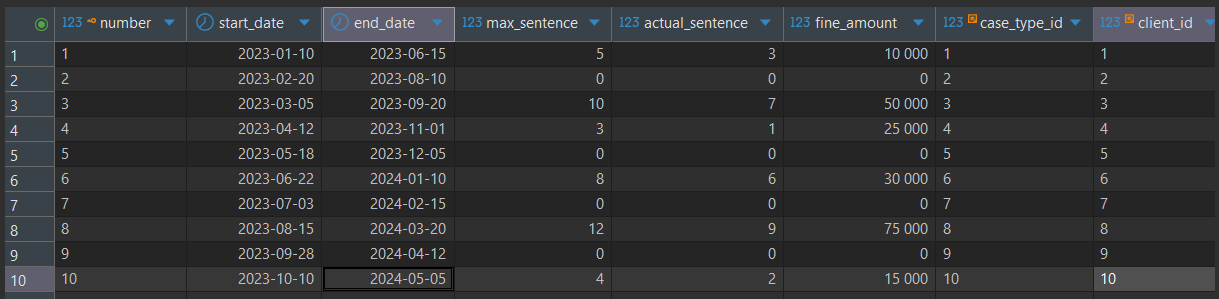
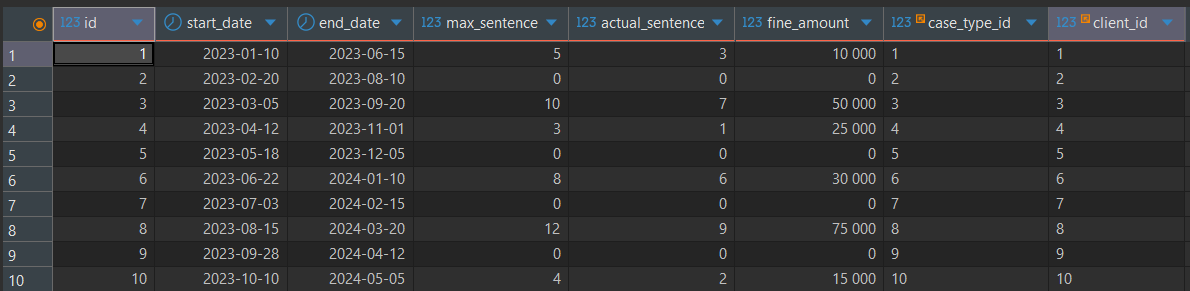
fix lab 2

diff --git a/README.md b/README.md
@@ -6,9 +6,9 @@ Database Labs in YarSU, Semenov Evgeniy, PMI-32, Lab number 13.
 
 ## Lab 1
 ### ER-model:
-![ER-model](https://github.com/Semonzz/databaseLabs/blob/main/1/1.png)
+![ER-model](/1/1.png)
 ### Relational model:
-![REL-model](https://github.com/Semonzz/databaseLabs/blob/main/1/2_1.png)
+![REL-model](/1/2_1.png)
 
 
 ## Lab 2 (PGSQL)
@@ -44,14 +44,14 @@ CREATE TABLE Client (
 
 
 CREATE TABLE "Case" (
-    number SERIAL PRIMARY KEY,
+    id SERIAL PRIMARY KEY,
     start_date DATE NOT NULL,
     end_date DATE,
     max_sentence INT CHECK (max_sentence >= 0),
     actual_sentence INT CHECK (actual_sentence >= 0),
     fine_amount INT CHECK (fine_amount >= 0),
     case_type_id INTEGER REFERENCES CaseType(id) ON DELETE SET NULL,
-    client_id INTEGER REFERENCES Client(id) ON DELETE CASCADE
+    client_id INTEGER NOT NULL REFERENCES Client(id) ON DELETE RESTRICT
 );
 
 
@@ -65,8 +65,8 @@ CREATE TABLE Lawyer_Client (
 
 CREATE TABLE Lawyer_Case (
     lawyer_id INTEGER REFERENCES Lawyer(id) ON DELETE CASCADE,
-    case_number INTEGER REFERENCES "Case"(number) ON DELETE CASCADE,
-    PRIMARY KEY (lawyer_id, case_number)
+    case_id INTEGER REFERENCES "Case"(id) ON DELETE CASCADE,
+    PRIMARY KEY (lawyer_id, case_id)
 );
 
 
